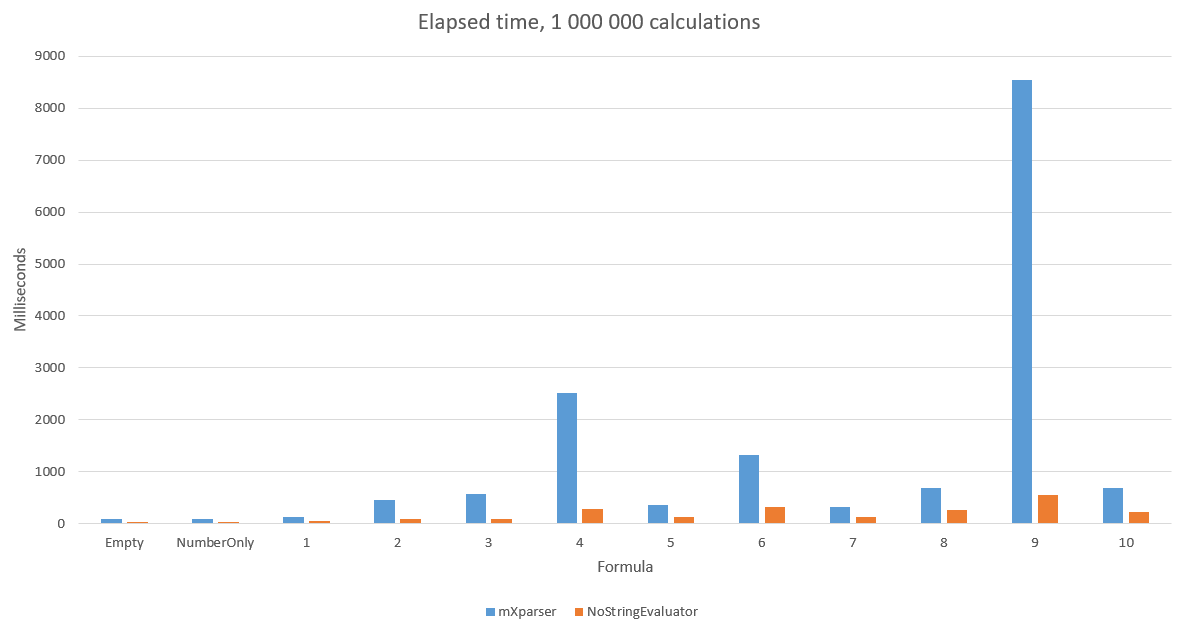
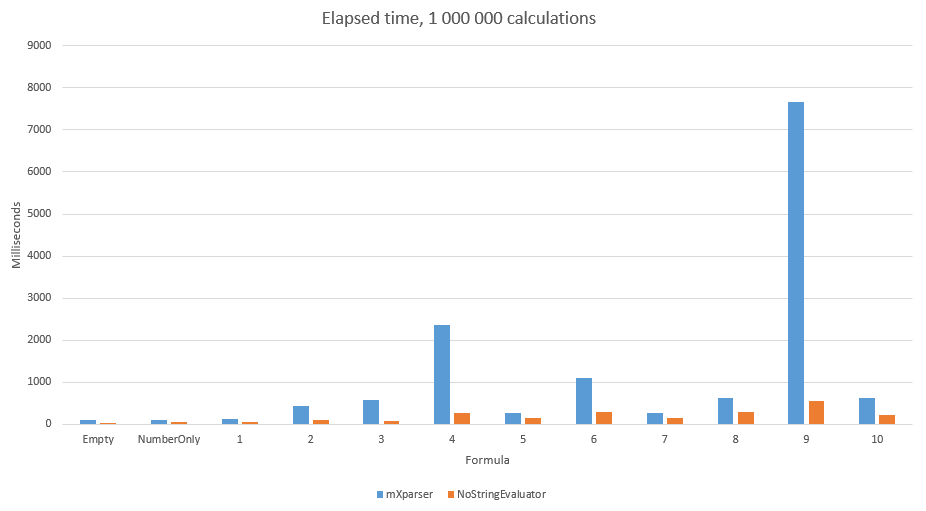
update benchmark

diff --git a/BenchResults/both.html b/BenchResults/both.html
@@ -2,7 +2,7 @@
 <html lang='en'>
 <head>
 <meta charset='utf-8' />
-<title>ConsoleApp.Benchmark.BenchNumbers-20230209-135445</title>
+<title>ConsoleApp.Benchmark.BenchNumbers-20240817-115246</title>
 
 <style type="text/css">
 	table { border-collapse: collapse; display: block; width: 100%; overflow: auto; }
@@ -13,43 +13,43 @@
 </head>
 <body>
 <pre><code>
-BenchmarkDotNet=v0.13.4, OS=Windows 10 (10.0.19044.2486/21H2/November2021Update)
+BenchmarkDotNet v0.14.0, Windows 10 (10.0.19045.4780/22H2/2022Update)
 11th Gen Intel Core i7-1185G7 3.00GHz, 1 CPU, 8 logical and 4 physical cores
-.NET SDK=7.0.101
-  [Host]     : .NET 7.0.1 (7.0.122.56804), X64 RyuJIT AVX2
-  Job-MQTNJN : .NET 7.0.1 (7.0.122.56804), X64 RyuJIT AVX2
+.NET SDK 8.0.200
+  [Host]     : .NET 8.0.2 (8.0.224.6711), X64 RyuJIT AVX-512F+CD+BW+DQ+VL+VBMI
+  Job-JNKMUS : .NET 8.0.2 (8.0.224.6711), X64 RyuJIT AVX-512F+CD+BW+DQ+VL+VBMI
 </code></pre>
 <pre><code>InvocationCount=3  IterationCount=10  RunStrategy=Monitoring  
 UnrollFactor=1  WarmupCount=2  
 </code></pre>
 
 <table>
-<thead><tr><th>       Method</th><th> Mean</th><th>Error</th><th>StdDev</th><th>  Gen0</th><th> Gen1</th><th>Gen2</th><th>Allocated</th>
+<thead><tr><th>Method       </th><th>Mean </th><th>Error</th><th>StdDev</th><th>Gen0  </th><th>Gen1 </th><th>Gen2</th><th>Allocated</th>
 </tr>
-</thead><tbody><tr><td>Empty_NoString</td><td>24.74 ms</td><td>0.829 ms</td><td>0.548 ms</td><td>-</td><td>-</td><td>-</td><td>3.22 KB</td>
-</tr><tr><td>NumberOnly_NoString</td><td>38.10 ms</td><td>1.113 ms</td><td>0.736 ms</td><td>-</td><td>-</td><td>-</td><td>3.61 KB</td>
-</tr><tr><td>Formula1_NoString</td><td>45.39 ms</td><td>2.245 ms</td><td>1.485 ms</td><td>-</td><td>-</td><td>-</td><td>3.74 KB</td>
-</tr><tr><td>Formula2_NoString</td><td>88.92 ms</td><td>4.535 ms</td><td>2.999 ms</td><td>-</td><td>-</td><td>-</td><td>4.6 KB</td>
-</tr><tr><td>Formula3_NoString</td><td>85.46 ms</td><td>1.402 ms</td><td>0.927 ms</td><td>-</td><td>-</td><td>-</td><td>5.08 KB</td>
-</tr><tr><td>Formula4_NoString</td><td>286.13 ms</td><td>14.831 ms</td><td>9.810 ms</td><td>-</td><td>-</td><td>-</td><td>9.84 KB</td>
-</tr><tr><td>Formula5_NoString</td><td>135.77 ms</td><td>2.910 ms</td><td>1.925 ms</td><td>-</td><td>-</td><td>-</td><td>4.98 KB</td>
-</tr><tr><td>Formula6_NoString</td><td>322.18 ms</td><td>1.654 ms</td><td>1.094 ms</td><td>-</td><td>-</td><td>-</td><td>8.26 KB</td>
-</tr><tr><td>Formula7_NoString</td><td>128.52 ms</td><td>1.588 ms</td><td>1.050 ms</td><td>-</td><td>-</td><td>-</td><td>4.8 KB</td>
-</tr><tr><td>Formula8_NoString</td><td>258.23 ms</td><td>5.151 ms</td><td>3.407 ms</td><td>-</td><td>-</td><td>-</td><td>6.59 KB</td>
-</tr><tr><td>Formula9_NoString</td><td>553.44 ms</td><td>9.307 ms</td><td>6.156 ms</td><td>-</td><td>-</td><td>-</td><td>10.96 KB</td>
-</tr><tr><td>Formula10_NoString</td><td>226.04 ms</td><td>4.389 ms</td><td>2.903 ms</td><td>-</td><td>-</td><td>-</td><td>5.65 KB</td>
-</tr><tr><td>Empty_MxParser</td><td>97.18 ms</td><td>1.172 ms</td><td>0.775 ms</td><td>66000.0000</td><td>-</td><td>-</td><td>406250.95 KB</td>
-</tr><tr><td>NumberOnly_MxParser</td><td>88.39 ms</td><td>2.043 ms</td><td>1.351 ms</td><td>24000.0000</td><td>-</td><td>-</td><td>148515.88 KB</td>
-</tr><tr><td>Formula1_MxParser</td><td>134.85 ms</td><td>1.794 ms</td><td>1.186 ms</td><td>44333.3333</td><td>-</td><td>-</td><td>273523.88 KB</td>
-</tr><tr><td>Formula2_MxParser</td><td>455.16 ms</td><td>4.682 ms</td><td>3.097 ms</td><td>184666.6667</td><td>333.3333</td><td>-</td><td>1133048.41 KB</td>
-</tr><tr><td>Formula3_MxParser</td><td>580.63 ms</td><td>7.148 ms</td><td>4.728 ms</td><td>270333.3333</td><td>1000.0000</td><td>-</td><td>1656536.5 KB</td>
-</tr><tr><td>Formula4_MxParser</td><td>2,519.84 ms</td><td>55.817 ms</td><td>36.920 ms</td><td>1135000.0000</td><td>22666.6667</td><td>-</td><td>6954199.7 KB</td>
-</tr><tr><td>Formula5_MxParser</td><td>350.81 ms</td><td>11.546 ms</td><td>7.637 ms</td><td>99333.3333</td><td>-</td><td>-</td><td>609594.48 KB</td>
-</tr><tr><td>Formula6_MxParser</td><td>1,331.11 ms</td><td>22.133 ms</td><td>14.640 ms</td><td>539333.3333</td><td>4000.0000</td><td>-</td><td>3305395.58 KB</td>
-</tr><tr><td>Formula7_MxParser</td><td>321.38 ms</td><td>9.344 ms</td><td>6.180 ms</td><td>131333.3333</td><td>-</td><td>-</td><td>804816.88 KB</td>
-</tr><tr><td>Formula8_MxParser</td><td>694.13 ms</td><td>20.828 ms</td><td>13.777 ms</td><td>341666.6667</td><td>1333.3333</td><td>-</td><td>2094014.2 KB</td>
-</tr><tr><td>Formula9_MxParser</td><td>8,540.56 ms</td><td>67.741 ms</td><td>44.807 ms</td><td>1447666.6667</td><td>366000.0000</td><td>5666.6667</td><td>9360871.28 KB</td>
-</tr><tr><td>Formula10_MxParser</td><td>684.27 ms</td><td>22.928 ms</td><td>15.165 ms</td><td>247333.3333</td><td>666.6667</td><td>-</td><td>1515846.02 KB</td>
+</thead><tbody><tr><td>Empty_NoString</td><td>34.55 ms</td><td>1.465 ms</td><td>0.969 ms</td><td>-</td><td>-</td><td>-</td><td>5.51 KB</td>
+</tr><tr><td>NumberOnly_NoString</td><td>47.08 ms</td><td>1.901 ms</td><td>1.257 ms</td><td>-</td><td>-</td><td>-</td><td>5.9 KB</td>
+</tr><tr><td>Formula1_NoString</td><td>51.46 ms</td><td>2.871 ms</td><td>1.899 ms</td><td>-</td><td>-</td><td>-</td><td>6.03 KB</td>
+</tr><tr><td>Formula2_NoString</td><td>98.33 ms</td><td>9.107 ms</td><td>6.024 ms</td><td>-</td><td>-</td><td>-</td><td>6.89 KB</td>
+</tr><tr><td>Formula3_NoString</td><td>76.44 ms</td><td>1.671 ms</td><td>1.105 ms</td><td>-</td><td>-</td><td>-</td><td>7.38 KB</td>
+</tr><tr><td>Formula4_NoString</td><td>263.56 ms</td><td>2.482 ms</td><td>1.642 ms</td><td>-</td><td>-</td><td>-</td><td>12.13 KB</td>
+</tr><tr><td>Formula5_NoString</td><td>145.10 ms</td><td>12.141 ms</td><td>8.031 ms</td><td>-</td><td>-</td><td>-</td><td>7.27 KB</td>
+</tr><tr><td>Formula6_NoString</td><td>302.92 ms</td><td>30.212 ms</td><td>19.983 ms</td><td>-</td><td>-</td><td>-</td><td>10.55 KB</td>
+</tr><tr><td>Formula7_NoString</td><td>145.03 ms</td><td>6.809 ms</td><td>4.504 ms</td><td>-</td><td>-</td><td>-</td><td>7.1 KB</td>
+</tr><tr><td>Formula8_NoString</td><td>291.57 ms</td><td>12.880 ms</td><td>8.519 ms</td><td>-</td><td>-</td><td>-</td><td>8.89 KB</td>
+</tr><tr><td>Formula9_NoString</td><td>551.50 ms</td><td>10.342 ms</td><td>6.841 ms</td><td>-</td><td>-</td><td>-</td><td>13.25 KB</td>
+</tr><tr><td>Formula10_NoString</td><td>216.98 ms</td><td>16.591 ms</td><td>10.974 ms</td><td>-</td><td>-</td><td>-</td><td>7.94 KB</td>
+</tr><tr><td>Empty_MxParser</td><td>93.31 ms</td><td>9.150 ms</td><td>6.052 ms</td><td>66000.0000</td><td>-</td><td>-</td><td>406250.92 KB</td>
+</tr><tr><td>NumberOnly_MxParser</td><td>90.66 ms</td><td>3.553 ms</td><td>2.350 ms</td><td>24000.0000</td><td>-</td><td>-</td><td>148515.66 KB</td>
+</tr><tr><td>Formula1_MxParser</td><td>137.42 ms</td><td>2.914 ms</td><td>1.928 ms</td><td>44333.3333</td><td>-</td><td>-</td><td>273522.6 KB</td>
+</tr><tr><td>Formula2_MxParser</td><td>433.20 ms</td><td>42.304 ms</td><td>27.982 ms</td><td>184666.6667</td><td>333.3333</td><td>-</td><td>1133044.61 KB</td>
+</tr><tr><td>Formula3_MxParser</td><td>588.55 ms</td><td>34.226 ms</td><td>22.639 ms</td><td>270333.3333</td><td>1000.0000</td><td>-</td><td>1656532.77 KB</td>
+</tr><tr><td>Formula4_MxParser</td><td>2,367.88 ms</td><td>155.146 ms</td><td>102.619 ms</td><td>1135000.0000</td><td>22333.3333</td><td>-</td><td>6954188.17 KB</td>
+</tr><tr><td>Formula5_MxParser</td><td>276.39 ms</td><td>6.087 ms</td><td>4.026 ms</td><td>99333.3333</td><td>-</td><td>-</td><td>609582.25 KB</td>
+</tr><tr><td>Formula6_MxParser</td><td>1,104.95 ms</td><td>68.355 ms</td><td>45.213 ms</td><td>539333.3333</td><td>4333.3333</td><td>-</td><td>3305396.21 KB</td>
+</tr><tr><td>Formula7_MxParser</td><td>279.89 ms</td><td>3.204 ms</td><td>2.119 ms</td><td>131333.3333</td><td>-</td><td>-</td><td>804815.08 KB</td>
+</tr><tr><td>Formula8_MxParser</td><td>617.36 ms</td><td>12.880 ms</td><td>8.519 ms</td><td>341666.6667</td><td>1666.6667</td><td>-</td><td>2094008.94 KB</td>
+</tr><tr><td>Formula9_MxParser</td><td>7,669.47 ms</td><td>98.175 ms</td><td>64.937 ms</td><td>1447666.6667</td><td>366000.0000</td><td>5666.6667</td><td>9360854.98 KB</td>
+</tr><tr><td>Formula10_MxParser</td><td>626.87 ms</td><td>7.463 ms</td><td>4.937 ms</td><td>247333.3333</td><td>666.6667</td><td>-</td><td>1515840.71 KB</td>
 </tr></tbody></table>
 </body>
 </html>

diff --git a/README.md b/README.md
@@ -93,7 +93,7 @@ Less is better
 ### Conclusion
 As you can see this solution is faster in all cases, furthermore there isn't any garbage collection.
 
-Benchmark code - [ConsoleApp/Benchmark/BenchmarkNumberService.cs](ConsoleApp/Benchmark/BenchmarkNumberService.cs "ConsoleApp/Benchmark/BenchmarkNumberService.cs")
+Benchmark code - [ConsoleApp/Benchmark/BenchNumbers.cs](ConsoleApp/Benchmark/BenchNumbers.cs "ConsoleApp/Benchmark/BenchNumbers.cs")
 
 Benchmark excel - [BenchResults/Benchmark.xlsx](BenchResults/Benchmark.xlsx "BenchResults/Benchmark.xlsx")
 
